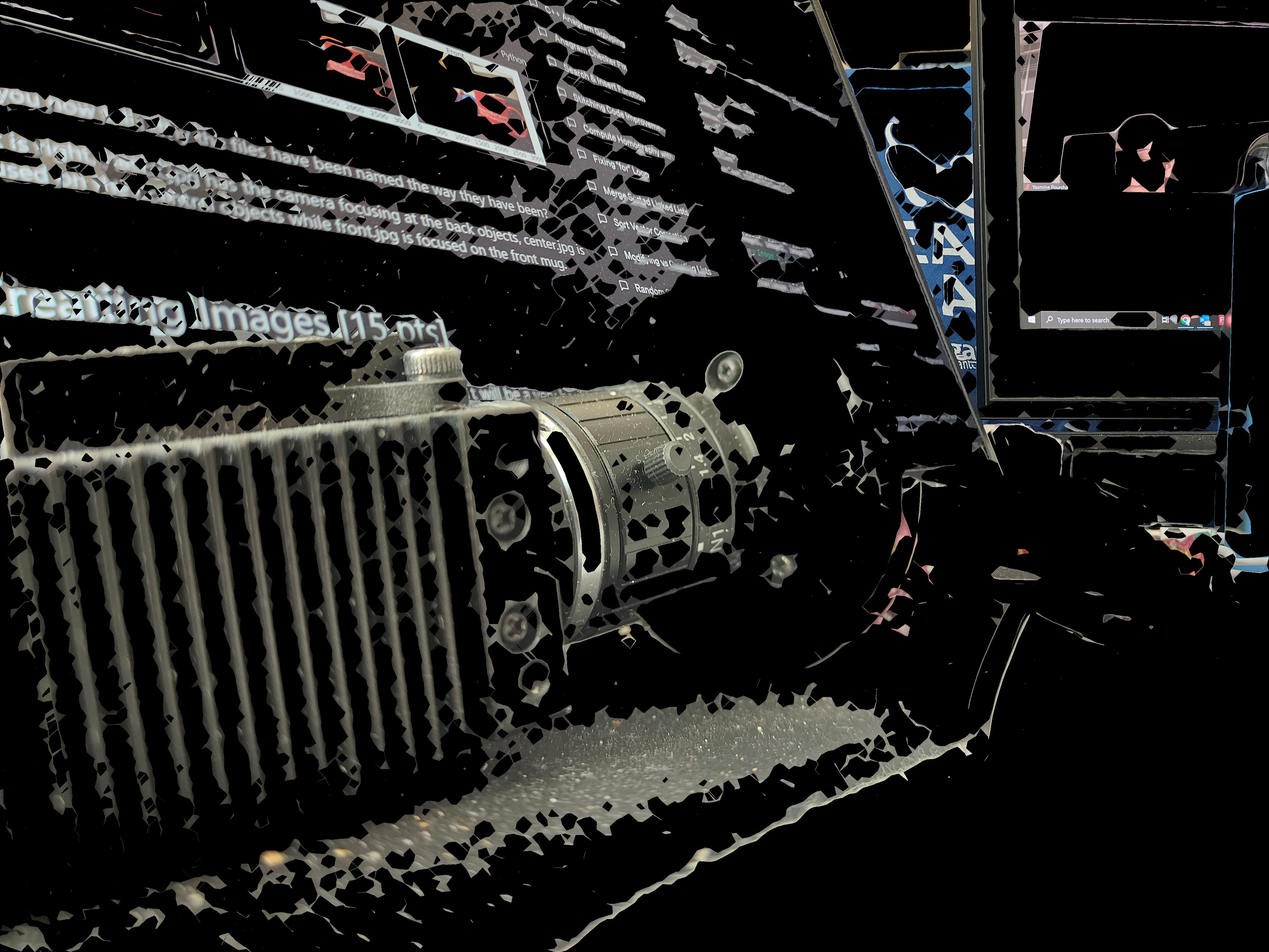
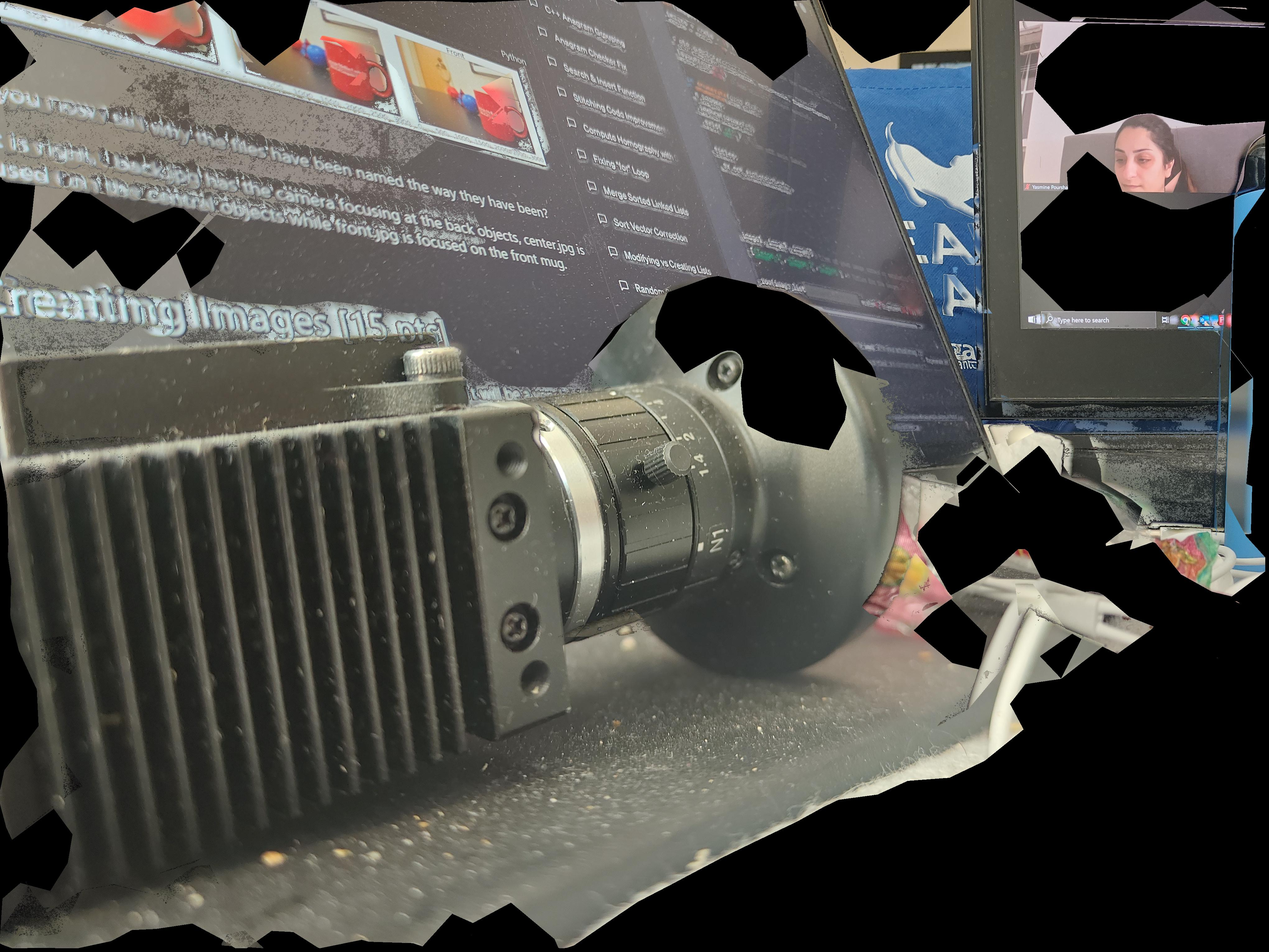
intersection

diff --git a/two_dimensions/processing.py b/two_dimensions/processing.py
@@ -4,6 +4,7 @@ from PIL import Image
 import numpy as np
 import matplotlib.pyplot as plt
 import skimage as sk
+from itertools import combinations
 
 class ImageProcessing():
     def __init__(self):      
@@ -49,15 +50,35 @@ class ImageProcessing():
             image = image[::2, ::2]
         return image, gaussian_pyramid
 
-    def combine_masks(self, results, masks):
-        canvas_height = max(image.shape[0] for image in results)
-        canvas_width = max(image.shape[1] for image in results)
-        combined_image = np.zeros((canvas_height, canvas_width, 3), dtype=np.uint8)
+    def masked_images(self, images, masks):
+        results = images.copy()
+        for i, mask in enumerate(masks):
+            void_indices = np.argwhere(np.logical_not(mask))
+            for idx in void_indices:
+                results[i][idx[0], idx[1], :] = [0, 0, 0]
+        return results
+
+    def stacked_image(self, results, masks):
+        combined_image = np.zeros_like(results[0], dtype=np.uint8)
         for masked_image, binary_mask in zip(results, masks):
             row_indices, col_indices = np.where(binary_mask)
             combined_image[row_indices, col_indices, :] = masked_image[row_indices, col_indices, :]
         return combined_image
     
+    def clean_masks(self, images, masks):
+        for mask_indices in combinations(range(len(masks)), 2):
+            mask1 = masks[mask_indices[0]]
+            mask2 = masks[mask_indices[1]]
+            image1,_ = self.sobel(images[mask_indices[0]])
+            image2,_ = self.sobel(images[mask_indices[1]])
+            intersection_indices = np.where(np.logical_and(mask1, mask2))
+            for group_indices in zip(*intersection_indices):
+                if np.mean(image1[group_indices]) > np.mean(image2[group_indices]):
+                    mask2[group_indices] = False
+                else:
+                    mask1[group_indices] = False
+        return masks
+
     def convex_hull_window(self, image, window_div, stride_div):
         window_size = min([x//window_div for x in np.shape(image)])
         stride = window_size//stride_div

diff --git a/two_dimensions/filters.py b/two_dimensions/filters.py
@@ -13,7 +13,6 @@ class Filters():
 
     def infinity_focus(self, method, window_num, stride_window):
         masks = []
-        results = self.images.copy()
         for i, img in enumerate(self.images):
             img = sk.color.rgb2gray(img)
             
@@ -25,14 +24,12 @@ class Filters():
             normalized = self.process.normalize_image(filtered)
             binary = self.process.get_threshold(normalized)
             hull = self.process.convex_hull_window(binary, window_num, stride_window)
-            filled_hull = self.process.fill_voids(hull)
-            void_indices = np.argwhere(np.logical_not(filled_hull))
-            
-            for idx in void_indices:
-                results[i][idx[0], idx[1], :] = [0, 0, 0]
-            
-            masks.append(hull)
-        combined_image = self.process.combine_masks(results, masks)
-        return combined_image, masks
+            filled_hull = self.process.fill_voids(hull)           
+            masks.append(filled_hull)
+        
+        masks = self.process.clean_masks(self.images, masks)
+        result_images = self.process.masked_images(self.images, masks)
+        stacked_image = self.process.stacked_image(result_images, masks)
+        return stacked_image, masks
         
         

diff --git a/run.py b/run.py
@@ -12,7 +12,7 @@ image_path = "D:\\data_sets\\CV\\blending\\Base"
 file_type = ".jpg"
 
 img = Filters(image_path, file_type)
-combined, masks = img.infinity_focus("sobel", 5, 50)
+combined, masks = img.infinity_focus("sobel", 20, 10)
 img.help.plot_gaussian_pyramid(masks)
 sk.io.imsave('stacked_image.jpg', combined)
 
